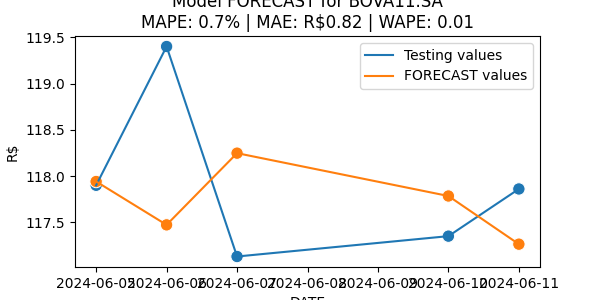
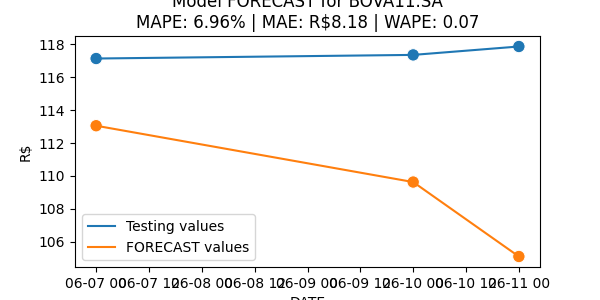
Completed re-using the update_lag_features function in the cross validation pipeline

diff --git a/src/models/evaluate_model.py b/src/models/evaluate_model.py
@@ -15,6 +15,7 @@ import numpy as np
 from sklearn.metrics import mean_squared_error, mean_absolute_percentage_error, mean_absolute_error
 
 from src.models.train_model import train_model
+from src.models.predict_model import update_lag_features, update_ma_features
 from src.visualization.data_viz import visualize_validation_results
 from src.utils import weekend_adj_forecast_horizon
 
@@ -117,6 +118,45 @@ def daily_model_evaluation(model_type=None, ticker_symbol=None):
             evaluate_and_store_performance(model_type, ticker_symbol, latest_value, predicted_value, latest_price_date, latest_run_date)
 
 
+
+def update_test_values(X: pd.DataFrame, y: pd.Series, day: int) -> tuple[pd.DataFrame, pd.Series]:
+    """
+    Prepares the feature and target data for testing on a specific day.
+
+    This function extracts a single row (or the remaining rows if it's the last day) 
+    from the input feature DataFrame (X) and target Series (y) to create a test set for 
+    a specific day. The day is specified relative to the end of the DataFrame, where
+    day 1 represents the last day, day 2 the second-to-last day, and so on.
+
+    Args:
+        X (pd.DataFrame): The feature DataFrame containing all historical data.
+        y (pd.Series): The target Series containing all historical target values.
+        day (int): The day to extract for testing, relative to the end of the DataFrames.
+                   1 is the last day, 2 is the second-to-last, etc.
+
+    Returns:
+        tuple[pd.DataFrame, pd.Series]: A tuple containing:
+            - X_test (pd.DataFrame): A DataFrame with the features for the specified day.
+            - y_test (pd.Series): A Series with the target value for the specified day.
+
+    Raises:
+        IndexError: If the specified `day` is out of bounds for the input DataFrames.
+    """
+    if day != 1:
+        # Select a single row using negative indexing
+        X_test = X.iloc[-day:-day+1,:]
+        y_test = y.iloc[-day:-day+1]
+
+    else:
+        # Handle the special case of the last day (day 1)
+        X_test = X.iloc[-day:,:]
+        y_test = y.iloc[-day:]
+
+    X_test.reset_index(drop=True, inplace=True)
+
+    return X_test, y_test
+
+
 def walk_forward_validation(X: pd.DataFrame, y: pd.Series, forecast_horizon: int, model_type: Any, ticker_symbol: str, tune_params: bool = False) -> pd.DataFrame:
     """
     Make predictions for the past `forecast_horizon` days using a XGBoost model.
@@ -139,15 +179,16 @@ def walk_forward_validation(X: pd.DataFrame, y: pd.Series, forecast_horizon: int
     dates = []
     X_testing_df = pd.DataFrame()
 
-    forecast_horizon = weekend_adj_forecast_horizon(forecast_horizon, 2)
+    forecast_horizon = 3#weekend_adj_forecast_horizon(forecast_horizon, 2)
     
     # get the one-shot training set
     X_train = X.iloc[:-forecast_horizon, :]
     y_train = y.iloc[:-forecast_horizon]
 
     print(f"Last training date: {X_train["DATE"].max()}")
-
+    
     final_y = y_train.copy()
+    print(final_y[-2:])
 
     best_model = train_model(
         X_train.drop(columns=["DATE"]),
@@ -163,26 +204,20 @@ def walk_forward_validation(X: pd.DataFrame, y: pd.Series, forecast_horizon: int
     # value
     for day in range(forecast_horizon, 0, -1):
         
-        if day != 1:
-            # the testing set will be the next day after the training and we use the complete dataset
-            X_test = X.iloc[-day:-day+1,:]
-            y_test = y.iloc[-day:-day+1]
+        X_test, y_test = update_test_values(X, y, day)
 
-        else:
-            # need to change the syntax for the last day (for -1:-2 will not work)
-            X_test = X.iloc[-day:,:]
-            y_test = y.iloc[-day:]
-
-        # only the first iteration will use the true value of Close_lag_1
+        # only the first iteration will use the true value of Close_LAG_1
         # because the following ones will use the last predicted value
         # so we simulate the process of predicting out-of-sample
         if len(predictions) != 0:
             
-            lag_features = [feature for feature in X_test.columns if "lag" in feature]
+            # X_test2 = X_test.copy()
+            lag_features = [feature for feature in X_test.columns if "LAG" in feature]
             for feature in lag_features:
                 lag_value = int(feature.split("_")[-1])
                 index_to_replace = list(X_test.columns).index(feature)
-                X_test.iat[0, index_to_replace] = final_y.iloc[-lag_value]
+                # X_test.iat[0, index_to_replace] = final_y.iloc[-lag_value]
+                X_test = update_lag_features(X_test, -1, list(final_y.values), X_test.columns)
 
 
             moving_averages_features = [feature for feature in X_test.columns if "MA" in feature]
@@ -194,11 +229,11 @@ def walk_forward_validation(X: pd.DataFrame, y: pd.Series, forecast_horizon: int
                 X_test.iat[0, index_to_replace] = last_ma
 
             X_testing_df = pd.concat([X_testing_df, X_test], axis=0)
-
+            
         else:
             # we jump the first iteration because we do not need to update anything.
+            
             X_testing_df = pd.concat([X_testing_df, X_test], axis=0)
-
             pass
 
         # make prediction
@@ -213,7 +248,9 @@ def walk_forward_validation(X: pd.DataFrame, y: pd.Series, forecast_horizon: int
         dates.append(X_test["DATE"].max())
 
     pred_df = pd.DataFrame(list(zip(dates, actuals, predictions)), columns=["DATE", "ACTUAL", "FORECAST"])
-    print(pred_df)
+    X_testing_df["FORECAST"] = predictions
+    X_testing_df.reset_index(drop=True, inplace=True)
+    print(X_testing_df)
     pred_df["FORECAST"] = pred_df["FORECAST"].astype("float64")
 
     logger.debug("Calculating the evaluation metrics...")
@@ -246,7 +283,6 @@ def model_crossval_pipeline(tune_params, model_type, ticker_symbol):
     available_models = config['model_config']['available_models']
 
     validation_report_df = pd.DataFrame()
-
 
     logger.info("Loading the featurized dataset..")
     stock_df_feat_all = pd.read_csv(os.path.join(PROCESSED_DATA_PATH, 'processed_stock_prices.csv'), parse_dates=["DATE"])
@@ -286,7 +322,7 @@ def model_crossval_pipeline(tune_params, model_type, ticker_symbol):
     logger.info("Writing the testing results dataframe...")
     # validation_report_df = validation_report_df.rename(columns={"FORECAST": "Price"})
     validation_report_df["CLASS"] = "Testing"
-    validation_report_df.to_csv(os.path.join(OUTPUT_DATA_PATH, 'validation_stock_prices.csv'), index=False)
+    validation_report_df.to_csv(os.path.join(OUTPUT_DATA_PATH, 'validation_results_new.csv'), index=False)
 
 
 if __name__ == "__main__":

diff --git a/src/models/predict_model.py b/src/models/predict_model.py
@@ -145,6 +145,7 @@ def update_lag_features(future_df: pd.DataFrame, day: int, past_target_values: l
     for feature in filter(lambda f: "LAG" in f, features):
         lag_value = int(feature.split("_")[-1])
         future_df.loc[day + 1, feature] = past_target_values[-lag_value]
+        future_df = future_df.dropna(subset=["DATE"])
 
     return future_df
 
